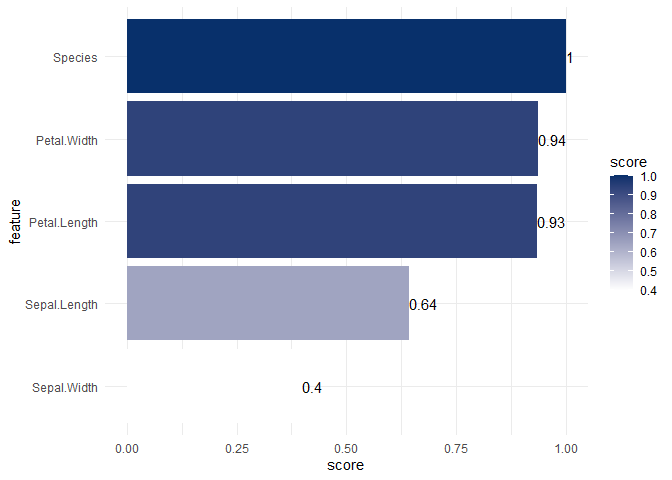
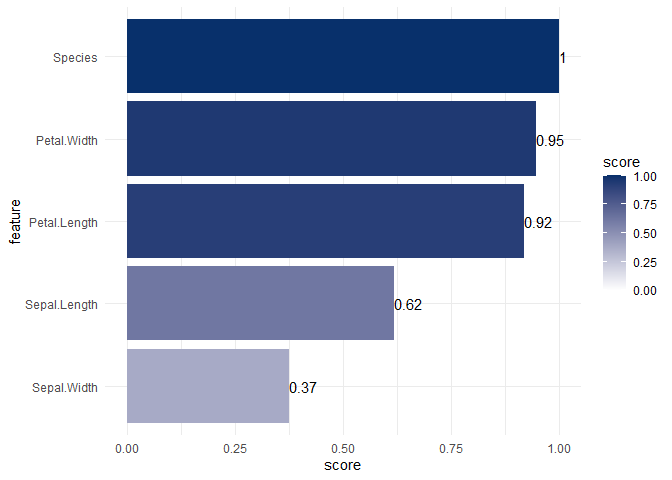
adds forced 0/1 limits to gradients

diff --git a/README.md b/README.md
@@ -65,16 +65,16 @@ ppsr::score(x = iris$Sepal.Length, y = iris$Sepal.Width)
 ``` r
 ppsr::score_predictors(df = iris, y = 'Species')
 #> $Sepal.Length
-#> [1] 0.5853548
+#> [1] 0.6133851
 #> 
 #> $Sepal.Width
-#> [1] 0.4227607
+#> [1] 0.3896038
 #> 
 #> $Petal.Length
-#> [1] 0.9310289
+#> [1] 0.9334725
 #> 
 #> $Petal.Width
-#> [1] 0.944758
+#> [1] 0.9369163
 #> 
 #> $Species
 #> [1] 1
@@ -87,7 +87,7 @@ ppsr::score_matrix(df = iris)
 #> Sepal.Width     0.1822185   1.0000000    0.3000489   0.3174639 0.2237120
 #> Petal.Length    0.6687765   0.2815605    1.0000000   0.8072795 0.7972117
 #> Petal.Width     0.5436489   0.2301854    0.7732164   1.0000000 0.7630875
-#> Species         0.6355347   0.4122201    0.9216852   0.9354223 1.0000000
+#> Species         0.6096471   0.4364693    0.9331635   0.9387910 1.0000000
 ```
 
 ## Visualizing PPS
